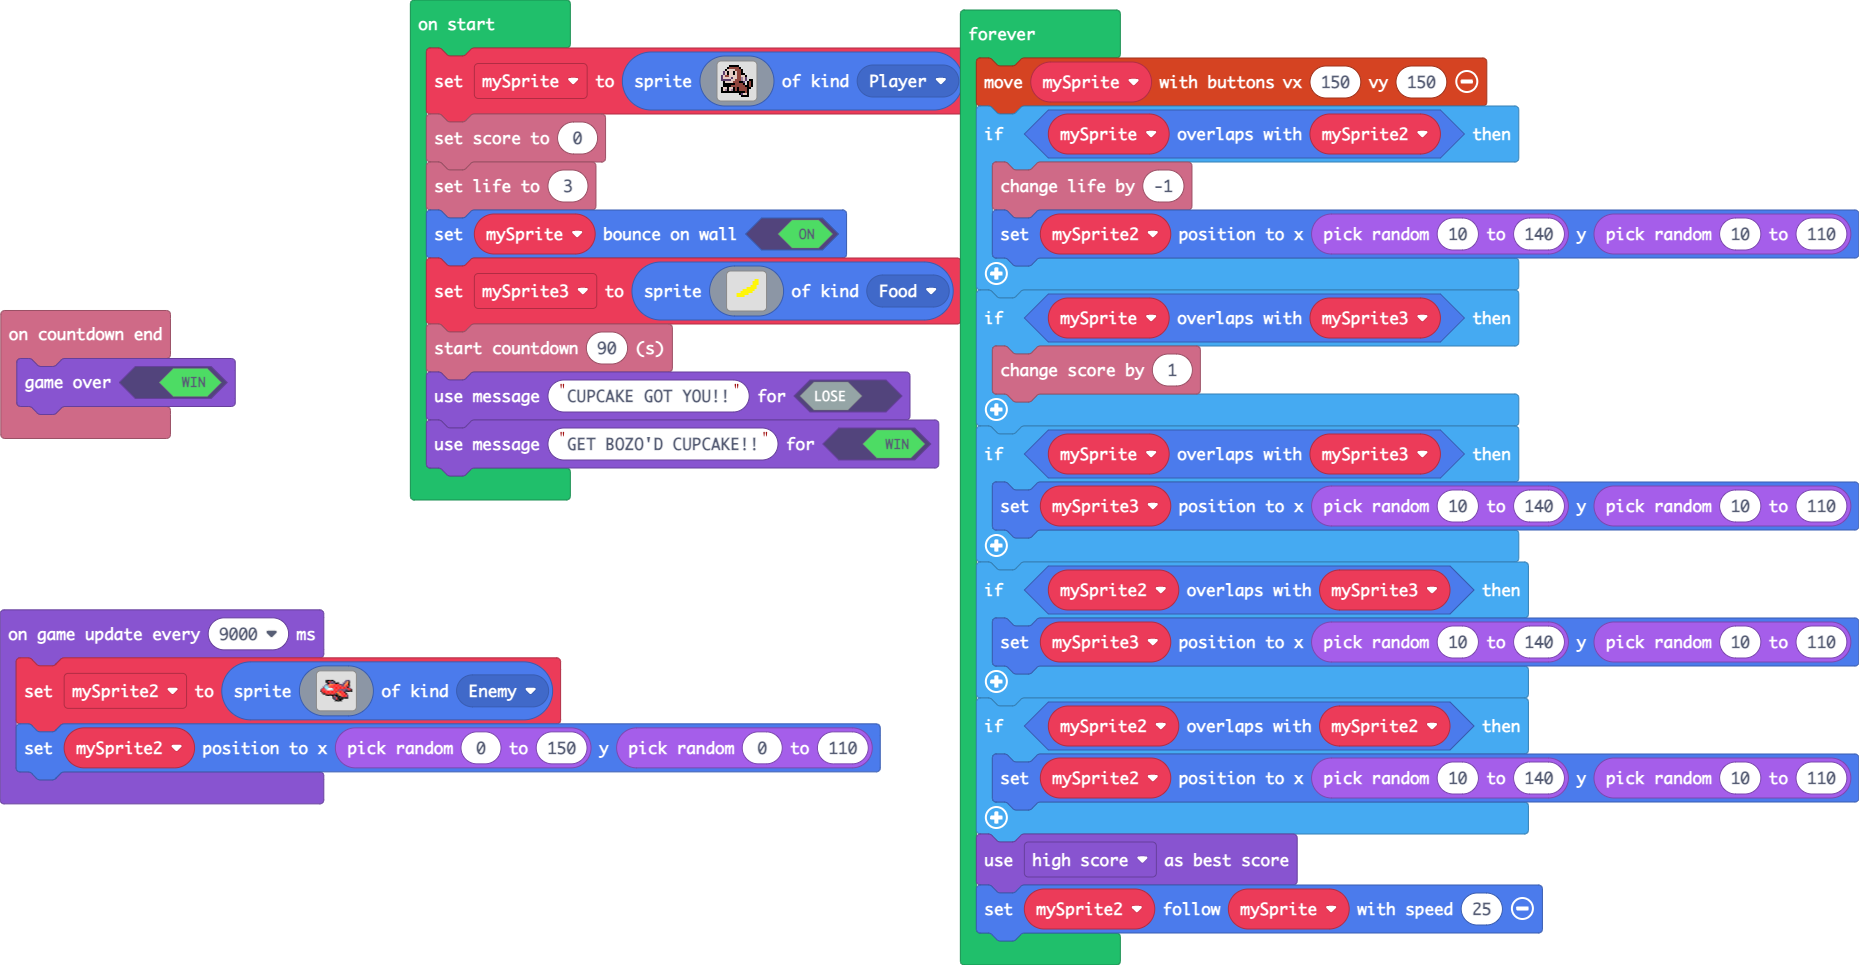
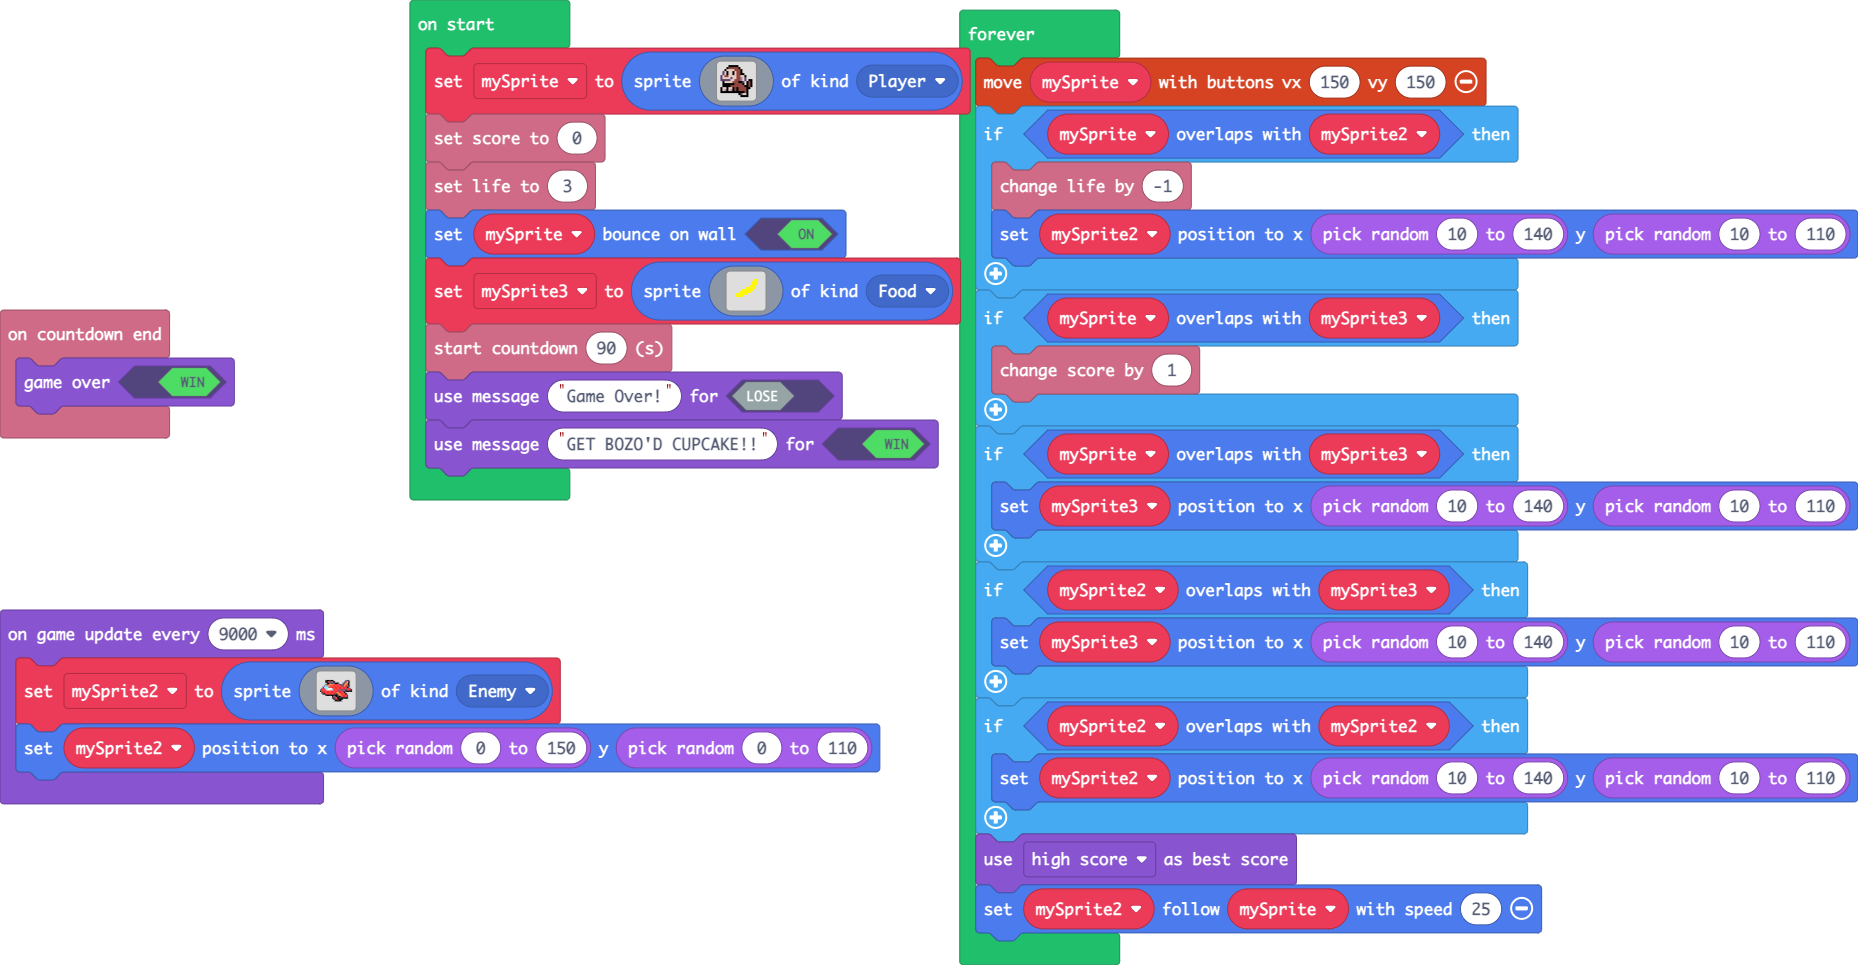
Update pxt.json, main.blocks, main.ts

diff --git a/main.ts b/main.ts
@@ -42,7 +42,7 @@ let mySprite3 = sprites.create(img`
     . . . . . . . . . . . . . . . . 
     `, SpriteKind.Food)
 info.startCountdown(90)
-game.setGameOverMessage(false, "CUPCAKE GOT YOU!!")
+game.setGameOverMessage(false, "Game Over!")
 game.setGameOverMessage(true, "GET BOZO'D CUPCAKE!!")
 game.onUpdateInterval(9000, function () {
     mySprite2 = sprites.create(img`
